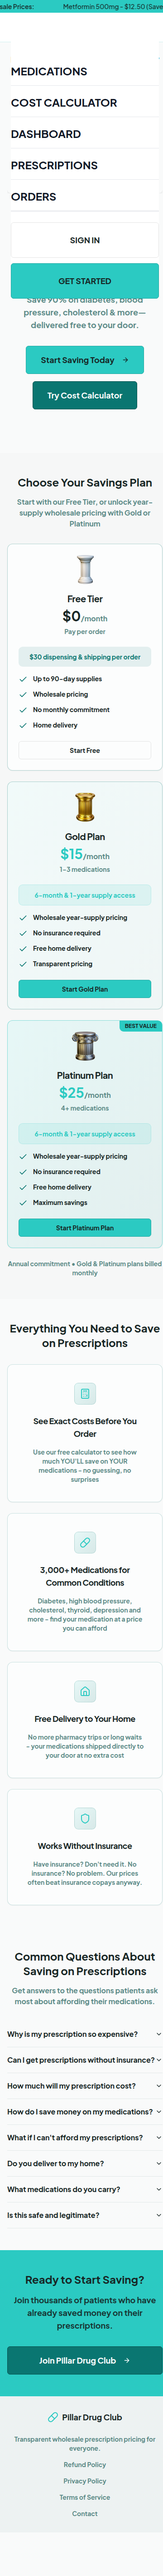
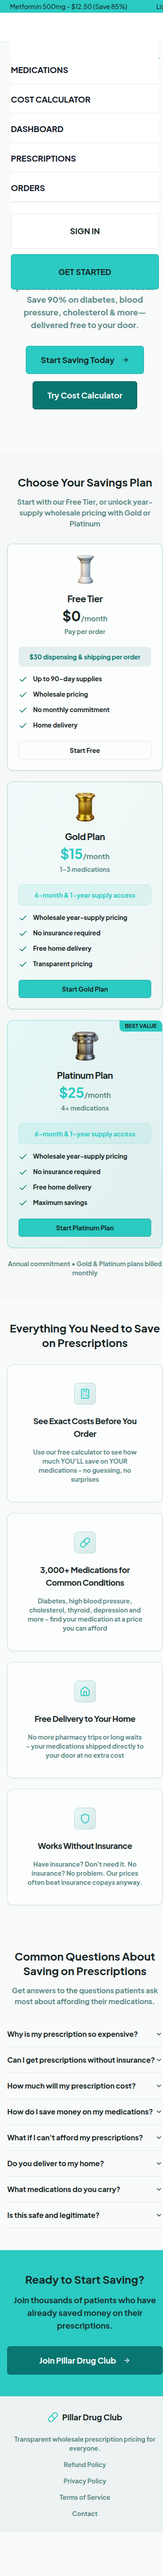
Adjust mobile menu to extend to the border and reduce font size
Modify the mobile menu component in Header.tsx to extend to the left border and reduce font sizes for navigation links and buttons.

Replit-Commit-Author: Agent
Replit-Commit-Session-Id: 10b2c25f-2054-4dad-a20c-76234d21716b
Replit-Commit-Checkpoint-Type: full_checkpoint
Replit-Commit-Event-Id: 5965df52-7e93-4e0a-8a62-af08553fb49c
Replit-Commit-Screenshot-Url: https://storage.googleapis.com/screenshot-production-us-central1/e9839ded-e32d-4a37-a3cc-95c48237f83a/10b2c25f-2054-4dad-a20c-76234d21716b/EQbalK2

Changed region(s): [[0.0611, 0.0, 0.9778, 0.1247]]

diff --git a/client/src/components/Header.tsx b/client/src/components/Header.tsx
@@ -175,8 +175,8 @@ export default function Header() {
         {isMenuOpen && (
           <div className="fixed inset-0 z-[100] md:hidden">
             <div className="fixed inset-0 z-[100] bg-black/40" onClick={() => setIsMenuOpen(false)} data-testid="mobile-menu-backdrop" />
-            <div className="fixed top-0 right-0 bottom-0 w-full max-w-sm z-[101] bg-white dark:bg-gray-950" data-testid="mobile-menu-panel">
-              <div className="flex flex-col h-full px-6 py-8 bg-white dark:bg-gray-950">
+            <div className="fixed inset-y-0 left-0 right-0 z-[101] bg-white dark:bg-gray-950" data-testid="mobile-menu-panel">
+              <div className="flex flex-col h-full py-8 bg-white dark:bg-gray-950">
                 {/* Navigation Links */}
                 <nav className="flex-1 pt-16 bg-white dark:bg-gray-950">
                   <div className="space-y-1">
@@ -185,7 +185,7 @@ export default function Header() {
                         key={item.name}
                         href={item.href}
                         onClick={() => setIsMenuOpen(false)}
-                        className="block py-4 text-2xl font-bold text-gray-900 dark:text-white hover:text-primary transition-colors border-b border-gray-200 dark:border-gray-800"
+                        className="block py-4 px-6 text-lg font-bold text-gray-900 dark:text-white hover:text-primary transition-colors border-b border-gray-200 dark:border-gray-800"
                         data-testid={`mobile-link-${item.name.toLowerCase().replace(/\s+/g, '-')}`}
                       >
                         {item.name}
@@ -195,7 +195,7 @@ export default function Header() {
                 </nav>
 
                 {/* Bottom Section */}
-                <div className="border-t border-gray-200 dark:border-gray-800 pt-6 space-y-4 bg-white dark:bg-gray-950">
+                <div className="border-t border-gray-200 dark:border-gray-800 pt-6 px-6 space-y-4 bg-white dark:bg-gray-950">
                   {isAuthenticated ? (
                     <>
                       <div className="flex items-center gap-3 pb-4">
@@ -230,7 +230,7 @@ export default function Header() {
                       </button>
                     </>
                   ) : (
-                    <div className="space-y-3 bg-white dark:bg-gray-950">
+                    <>
                       <a href="/login" onClick={() => setIsMenuOpen(false)} className="block">
                         <Button variant="outline" className="w-full justify-center text-lg font-bold py-6 bg-white dark:bg-gray-900" data-testid="mobile-button-login">
                           SIGN IN
@@ -241,7 +241,7 @@ export default function Header() {
                           GET STARTED
                         </Button>
                       </a>
-                    </div>
+                    </>
                   )}
                 </div>
               </div>
